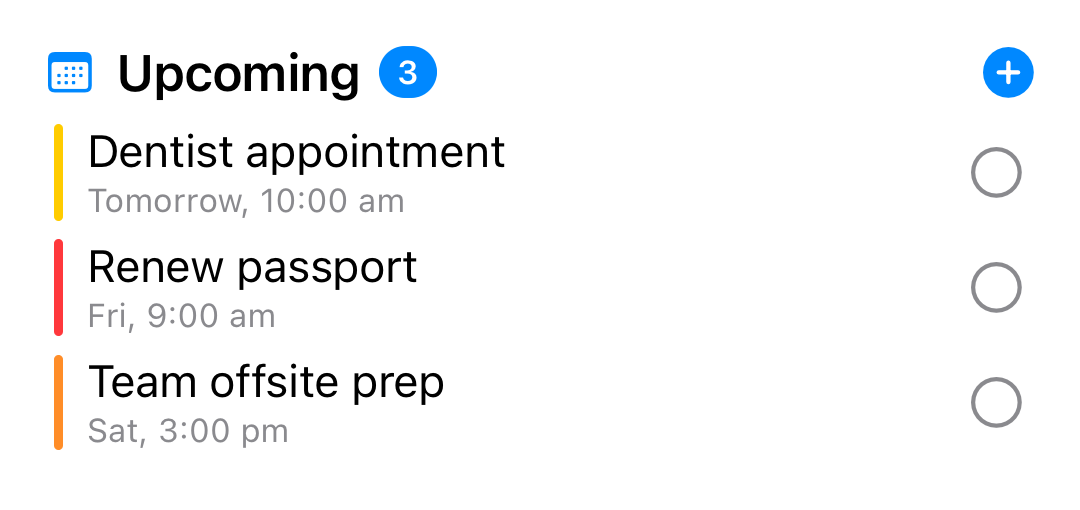
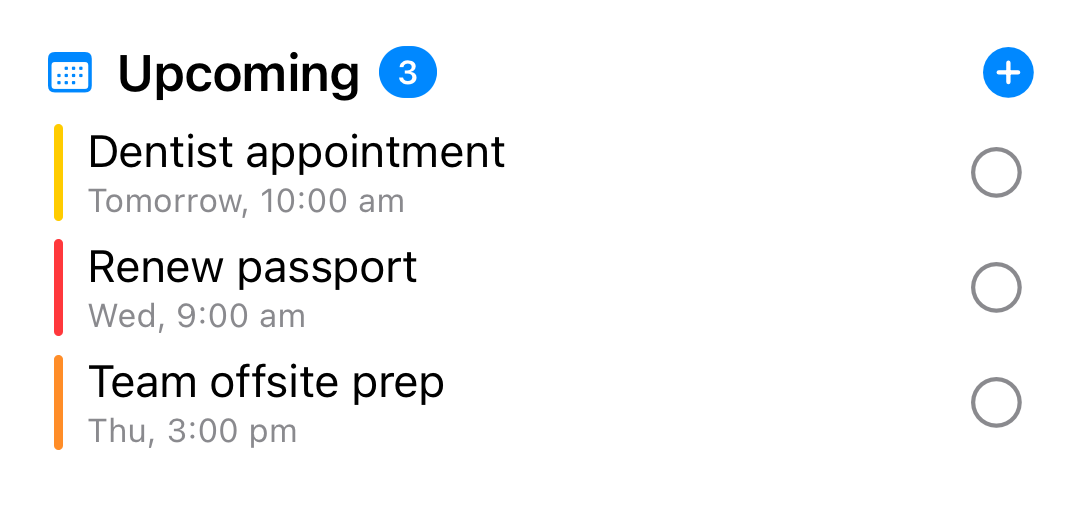
Address Copilot review feedback on the Kanban board
- moveTask now inserts the moved task into the local task list when it
  isn't there yet (board loaded before the list), keeping list and board
  consistent; adds a regression test
- The board only reloads after a successful move, avoiding a pointless
  refresh and UI flash when the move fails
- The filter and sort toolbar controls are hidden while the board is
  shown, since they only affect the list view

Changed region(s): [[0.0611, 0.5882, 0.275, 0.6471], [0.0611, 0.8235, 0.275, 0.8824]]

diff --git a/mDone/Views/Tasks/TaskListScreen.swift b/mDone/Views/Tasks/TaskListScreen.swift
@@ -23,6 +23,16 @@ struct TaskListScreen: View {
         !readOnly && projectFilter?.kanbanViewId != nil
     }
 
+    /// True while the board is displayed instead of the list. The filter and
+    /// sort controls only affect the list, so they're hidden in board mode.
+    private var boardActive: Bool {
+        #if os(iOS)
+        return showBoard && projectFilter != nil
+        #else
+        return false
+        #endif
+    }
+
     enum SortOrder: String, CaseIterable {
         case dueDate = "Due Date"
         case priority = "Priority"
@@ -161,41 +171,43 @@ struct TaskListScreen: View {
         }
         #endif
 
-        ToolbarItem(placement: .primaryAction) {
-            Button {
-                showAdvancedFilter = true
-            } label: {
-                Image(systemName: appState
-                    .advancedFilterString != nil ? "line.3.horizontal.decrease.circle.fill" :
-                    "line.3.horizontal.decrease.circle")
+        if !boardActive {
+            ToolbarItem(placement: .primaryAction) {
+                Button {
+                    showAdvancedFilter = true
+                } label: {
+                    Image(systemName: appState
+                        .advancedFilterString != nil ? "line.3.horizontal.decrease.circle.fill" :
+                        "line.3.horizontal.decrease.circle")
+                }
+                .accessibilityLabel(appState
+                    .advancedFilterString != nil ? "Advanced filter active" : "Advanced filter")
             }
-            .accessibilityLabel(appState
-                .advancedFilterString != nil ? "Advanced filter active" : "Advanced filter")
-        }
 
-        ToolbarItem(placement: .primaryAction) {
-            Menu {
-                ForEach(SortOrder.allCases, id: \.self) { order in
-                    Button {
-                        if sortOrder == order {
-                            sortAscending.toggle()
-                        } else {
-                            sortOrder = order
-                            sortAscending = true
-                        }
-                    } label: {
-                        HStack {
-                            Text(order.rawValue)
+            ToolbarItem(placement: .primaryAction) {
+                Menu {
+                    ForEach(SortOrder.allCases, id: \.self) { order in
+                        Button {
                             if sortOrder == order {
-                                Image(systemName: sortAscending ? "chevron.up" : "chevron.down")
+                                sortAscending.toggle()
+                            } else {
+                                sortOrder = order
+                                sortAscending = true
+                            }
+                        } label: {
+                            HStack {
+                                Text(order.rawValue)
+                                if sortOrder == order {
+                                    Image(systemName: sortAscending ? "chevron.up" : "chevron.down")
+                                }
                             }
                         }
                     }
+                } label: {
+                    Image(systemName: "arrow.up.arrow.down")
                 }
-            } label: {
-                Image(systemName: "arrow.up.arrow.down")
+                .accessibilityLabel("Sort by \(sortOrder.rawValue), \(sortAscending ? "ascending" : "descending")")
             }
-            .accessibilityLabel("Sort by \(sortOrder.rawValue), \(sortAscending ? "ascending" : "descending")")
         }
     }
 

diff --git a/mDoneTests/KanbanTests.swift b/mDoneTests/KanbanTests.swift
@@ -184,6 +184,33 @@ final class KanbanTests: XCTestCase {
     }
 
     @MainActor
+    func testAppStateMoveTaskInsertsMissingTask() async {
+        let client = APIClient(session: MockURLProtocol.mockSession())
+        await client.configure(serverURL: "https://mock.vikunja.io", token: "test-token")
+        let appState = AppState(taskService: TaskService(apiClient: client))
+
+        let project = Project(
+            id: 7,
+            title: "Work",
+            views: [ProjectView(id: 3, title: "Kanban", projectId: 7, viewKind: "kanban")]
+        )
+        // The board was loaded before the list, so the task isn't in `tasks` yet.
+        var task = VTask(id: 42, title: "Board only", done: false, priority: 0, projectId: 7)
+        task.bucketId = 1
+        appState.tasks = []
+
+        MockURLProtocol.requestHandler = { request in
+            (MockURLProtocol.makeResponse(statusCode: 200, url: request.url), Data())
+        }
+
+        let moved = await appState.moveTask(task, toBucket: 9, in: project)
+        XCTAssertTrue(moved)
+        XCTAssertEqual(appState.tasks.count, 1)
+        XCTAssertEqual(appState.tasks.first?.id, 42)
+        XCTAssertEqual(appState.tasks.first?.bucketId, 9)
+    }
+
+    @MainActor
     func testAppStateMoveTaskNoOpWhenSameBucket() async {
         let appState = AppState()
         let project = Project(

diff --git a/mDone/App/AppState.swift b/mDone/App/AppState.swift
@@ -959,6 +959,12 @@ final class AppState {
             )
             if let index = tasks.firstIndex(where: { $0.id == task.id }) {
                 tasks[index].bucketId = bucketId
+            } else {
+                // The board can be shown before the list has fetched this task,
+                // so insert it to keep list views consistent with the board.
+                var moved = task
+                moved.bucketId = bucketId
+                tasks.append(moved)
             }
             return true
         } catch {

diff --git a/mDone/Views/Projects/ProjectBoardView.swift b/mDone/Views/Projects/ProjectBoardView.swift
@@ -172,8 +172,9 @@ private struct BoardTaskCard: View {
                         ForEach(otherBuckets) { bucket in
                             Button(bucket.title) {
                                 Task {
-                                    await appState.moveTask(task, toBucket: bucket.id, in: project)
-                                    await onChanged()
+                                    if await appState.moveTask(task, toBucket: bucket.id, in: project) {
+                                        await onChanged()
+                                    }
                                 }
                             }
                         }